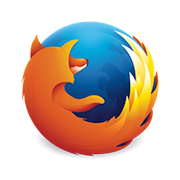
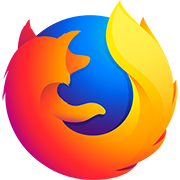
Remove 57 switch from Firefox base templates

diff --git a/bedrock/firefox/templates/firefox/base-resp.html b/bedrock/firefox/templates/firefox/base-resp.html
@@ -6,43 +6,14 @@
 
 {% extends "base-resp.html" %}
 
-{% set quantum = switch('firefox-57-release') %}
-
 {% block body_class %}sky{% endblock %}
 
 {% block page_title_prefix %}{{_('Mozilla Firefox Web Browser')}} — {% endblock %}
 
-{% block page_image %}
-{%- if quantum -%}
-  {{ static('img/firefox/template/page-image-quantum.png') }}
-{%- else -%}
-  {{ static('img/firefox/template/page-image.png') }}
-{%- endif -%}
-{% endblock %}
-
-{% block page_favicon %}
-{%- if quantum -%}
-  {{ static('img/firefox/favicon-quantum.ico') }}
-{%- else -%}
-  {{ static('img/firefox/favicon.ico') }}
-{%- endif -%}
-{% endblock %}
-
-{% block page_favicon_large %}
-{%- if quantum -%}
-  {{ static('img/firefox/favicon-quantum-196.png') }}
-{%- else -%}
-  {{ static('img/firefox/favicon-196.png') }}
-{%- endif -%}
-{% endblock %}
-
-{% block page_ios_icon %}
-{%- if quantum -%}
-  {{ static('img/firefox/ios-icon-quantum-180.png') }}
-{%- else -%}
-  {{ static('img/firefox/ios-icon-180.png') }}
-{%- endif -%}
-{% endblock %}
+{% block page_image %}{{ static('img/firefox/template/page-image.png') }}{% endblock %}
+{% block page_favicon %}{{ static('img/firefox/favicon.ico') }}{% endblock %}
+{% block page_favicon_large %}{{ static('img/firefox/favicon-196.png') }}{% endblock %}
+{% block page_ios_icon %}{{ static('img/firefox/ios-icon-180.png') }}{% endblock %}
 
 {% block facebook_id %}14696440021{# facebook.com/Firefox #}{% endblock %}
 {% block twitter_id %}firefox{% endblock %}

diff --git a/bedrock/firefox/templates/firefox/base.html b/bedrock/firefox/templates/firefox/base.html
@@ -4,43 +4,14 @@
 
 {% extends "base.html" %}
 
-{% set quantum = switch('firefox-57-release') %}
-
 {% block body_class %}sky{% endblock %}
 
 {% block page_title_prefix %}{{ _('Mozilla Firefox Web Browser') }} — {% endblock %}
 
-{% block page_image %}
-{%- if quantum -%}
-  {{ static('img/firefox/template/page-image-quantum.png') }}
-{%- else -%}
-  {{ static('img/firefox/template/page-image.png') }}
-{%- endif -%}
-{% endblock %}
-
-{% block page_favicon %}
-{%- if quantum -%}
-  {{ static('img/firefox/favicon-quantum.ico') }}
-{%- else -%}
-  {{ static('img/firefox/favicon.ico') }}
-{%- endif -%}
-{% endblock %}
-
-{% block page_favicon_large %}
-{%- if quantum -%}
-  {{ static('img/firefox/favicon-quantum-196.png') }}
-{%- else -%}
-  {{ static('img/firefox/favicon-196.png') }}
-{%- endif -%}
-{% endblock %}
-
-{% block page_ios_icon %}
-{%- if quantum -%}
-  {{ static('img/firefox/ios-icon-quantum-180.png') }}
-{%- else -%}
-  {{ static('img/firefox/ios-icon-180.png') }}
-{%- endif -%}
-{% endblock %}
+{% block page_image %}{{ static('img/firefox/template/page-image.png') }}{% endblock %}
+{% block page_favicon %}{{ static('img/firefox/favicon.ico') }}{% endblock %}
+{% block page_favicon_large %}{{ static('img/firefox/favicon-196.png') }}{% endblock %}
+{% block page_ios_icon %}{{ static('img/firefox/ios-icon-180.png') }}{% endblock %}
 
 {% block facebook_id %}14696440021{# facebook.com/Firefox #}{% endblock %}
 {% block twitter_id %}firefox{% endblock %}

diff --git a/bedrock/firefox/templates/firefox/base-pebbles.html b/bedrock/firefox/templates/firefox/base-pebbles.html
@@ -4,42 +4,13 @@
 
 {% extends "base-pebbles.html" %}
 
-{% set quantum = switch('firefox-57-release') %}
-
 {% block page_title_prefix %}{% endblock %}
 {% block page_title_suffix %}{% endblock %}
 
-{% block page_image %}
-{%- if quantum -%}
-  {{ static('img/firefox/template/page-image-quantum.png') }}
-{%- else -%}
-  {{ static('img/firefox/template/page-image.png') }}
-{%- endif -%}
-{% endblock %}
-
-{% block page_favicon %}
-{%- if quantum -%}
-  {{ static('img/firefox/favicon-quantum.ico') }}
-{%- else -%}
-  {{ static('img/firefox/favicon.ico') }}
-{%- endif -%}
-{% endblock %}
-
-{% block page_favicon_large %}
-{%- if quantum -%}
-  {{ static('img/firefox/favicon-quantum-196.png') }}
-{%- else -%}
-  {{ static('img/firefox/favicon-196.png') }}
-{%- endif -%}
-{% endblock %}
-
-{% block page_ios_icon %}
-{%- if quantum -%}
-  {{ static('img/firefox/ios-icon-quantum-180.png') }}
-{%- else -%}
-  {{ static('img/firefox/ios-icon-180.png') }}
-{%- endif -%}
-{% endblock %}
+{% block page_image %}{{ static('img/firefox/template/page-image.png') }}{% endblock %}
+{% block page_favicon %}{{ static('img/firefox/favicon.ico') }}{% endblock %}
+{% block page_favicon_large %}{{ static('img/firefox/favicon-196.png') }}{% endblock %}
+{% block page_ios_icon %}{{ static('img/firefox/ios-icon-180.png') }}{% endblock %}
 
 {% block facebook_id %}14696440021{# facebook.com/Firefox #}{% endblock %}
 {% block twitter_id %}firefox{% endblock %}
